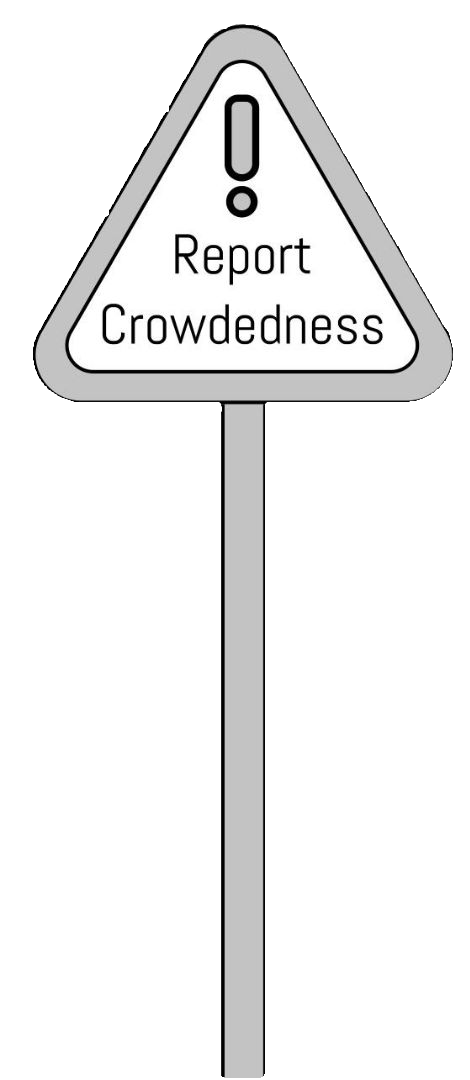
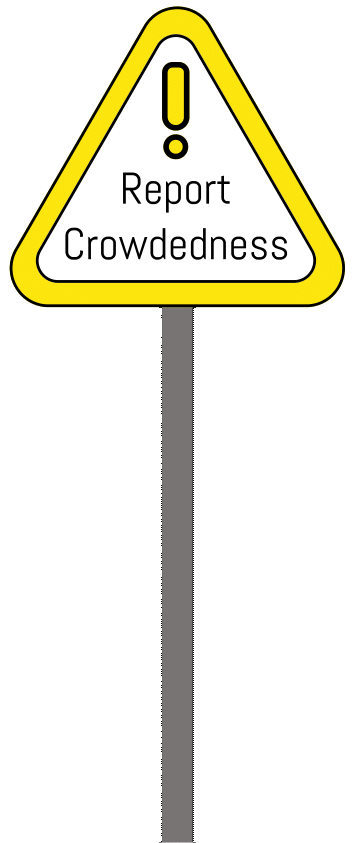
update image for bus and skytrain and report pole

Changed region(s): [[0.031, 0.0, 0.9915, 1.0]]

diff --git a/logged_in.html b/logged_in.html
@@ -21,7 +21,7 @@
         }
         #report {
         position: absolute;
-        top: 43%;
+        top: 46%;
         left: 4%;
         width: 90px;
         height: 200px;

diff --git a/search_result.html b/search_result.html
@@ -19,7 +19,7 @@
     }
     #report {
         position: absolute;
-        top: 43%;
+        top: 46%;
         left: 4%;
         width: 90px;
         height: 200px;
